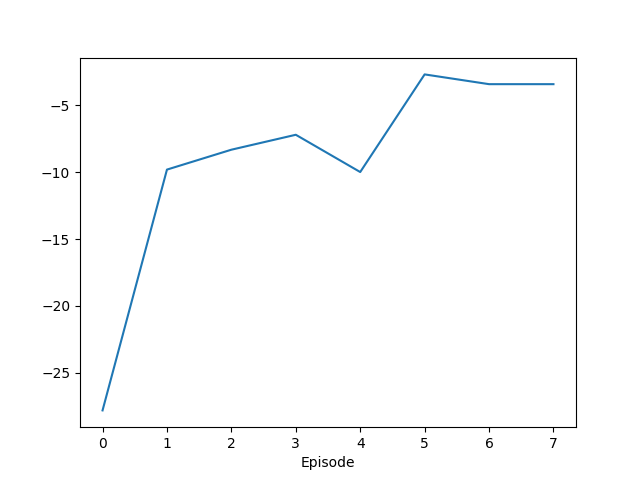
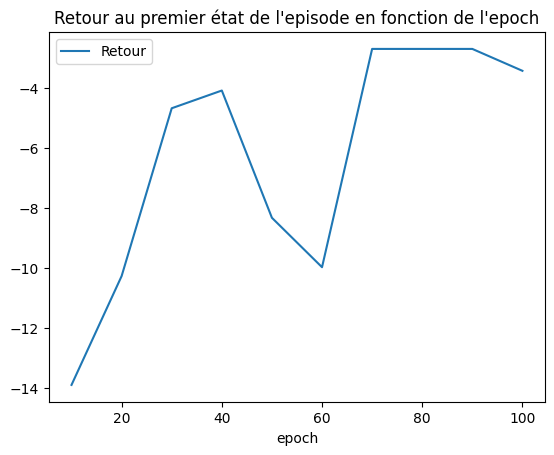
modif graph

diff --git a/qlearning.py b/qlearning.py
@@ -26,6 +26,7 @@ def qlearn(buffer,
     Loss = torch.nn.MSELoss()
     listLossQ = []
     listRetour = []
+    iterations = []
     Qprim = Q(env, agent)
     def swap():
         Qprim.load_state_dict(Qvalue.state_dict())
@@ -61,12 +62,13 @@ def qlearn(buffer,
             torch.save(optimizerQ.state_dict(), os.path.join(loadopt,f"opt_q_load_{i}_{j}.pt"))
             list_retour, it = test(Qvalue,agent, env, epsilon =epsilon)
             retour = list_retour[0]
+            iterations.append(i)
             listRetour.append(retour)
-            plt.plot(listRetour, label="Retour")
+            plt.plot(iterations, listRetour, label="Retour")
             plt.xlabel("epoch")
             plt.title("Retour au premier état de l'episode en fonction de l'epoch")
             plt.legend()
-            plt.savefig(os.path.join("plot","retour"))
+            plt.savefig(os.path.join("plot","retour"), bbox_inches='tight')
             plt.close()
             print("retour", retour)
             print("nombre iterations", it)
